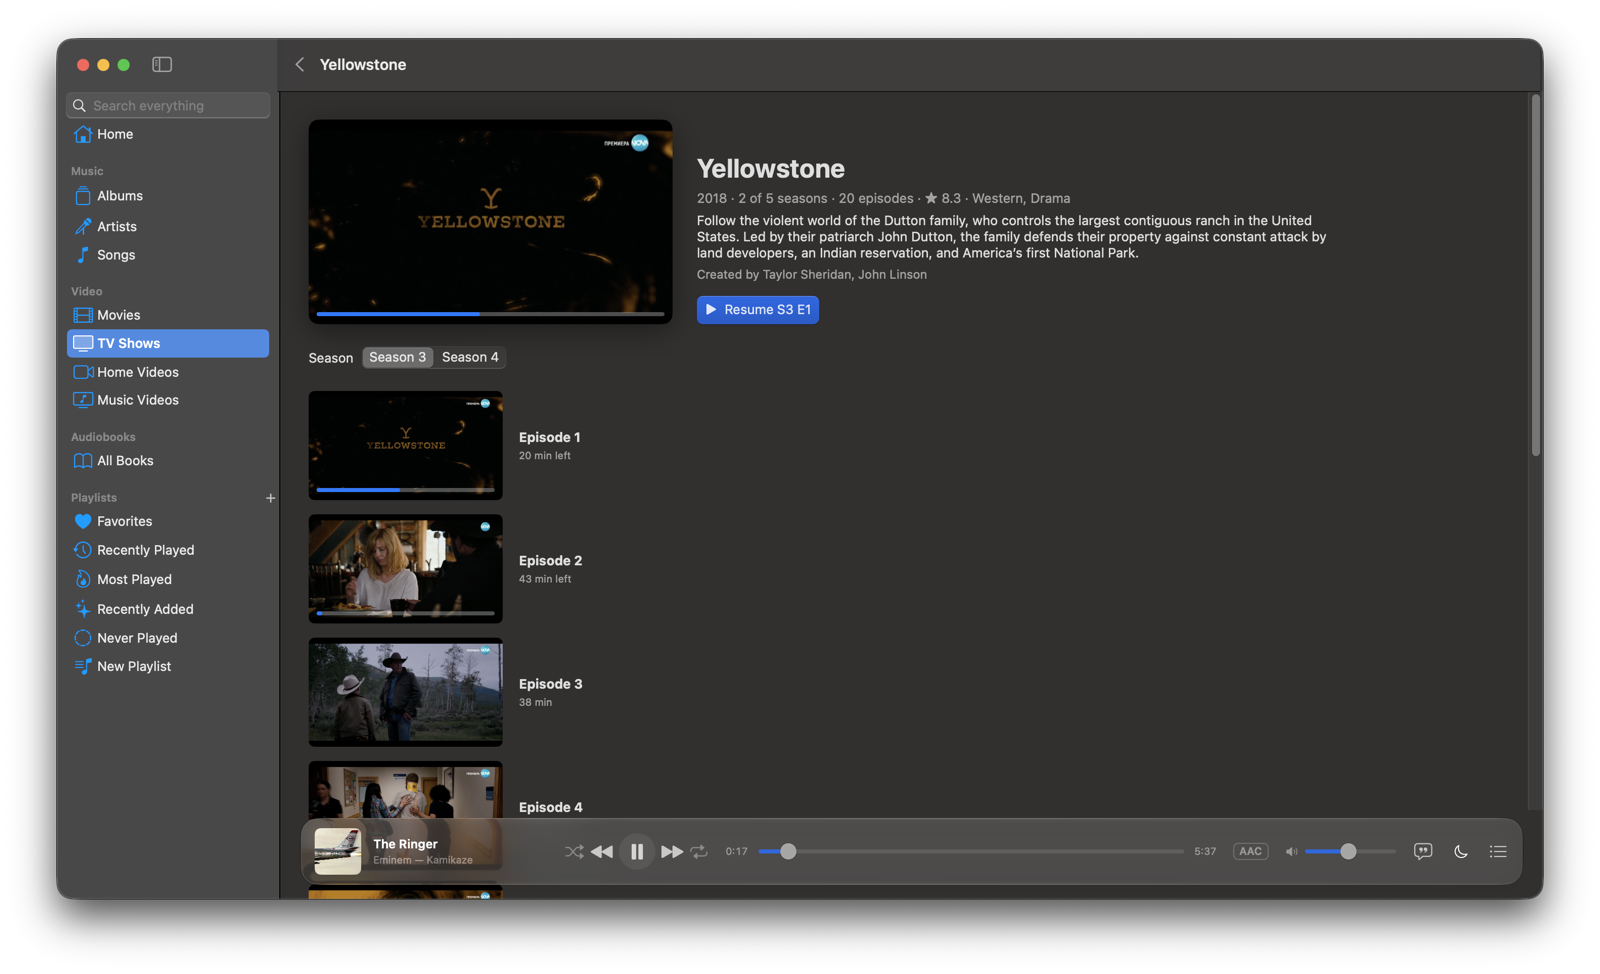
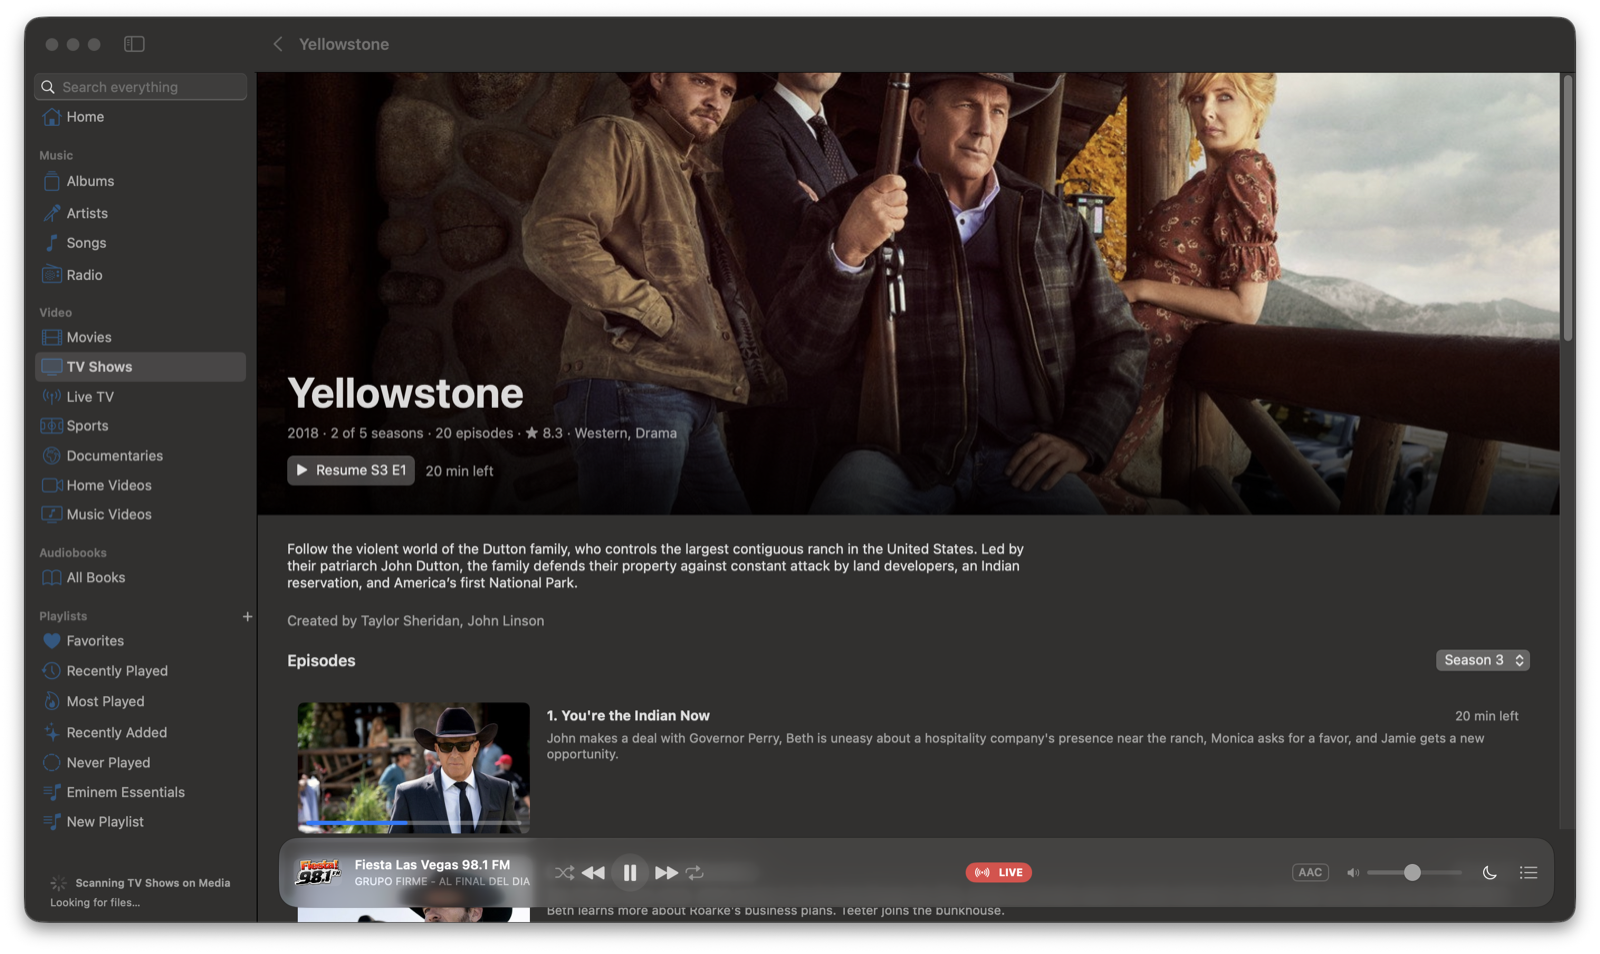
README: new screenshots (TV show page, cast profile, Live TV, Radio) and Live TV and Radio in the feature list

diff --git a/README.md b/README.md
@@ -11,8 +11,9 @@ asks you to prove you bought them. If a file isn't copy-protected, it plays.
 
 | | |
 |---|---|
-| ![A TV show with its seasons and episodes](docs/screenshots/show.png) | ![An album playing](docs/screenshots/album.png) |
-| ![Artists, with photos](docs/screenshots/artists.png) | ![An artist's page with bio and albums](docs/screenshots/artist.png) |
+| ![A TV show: backdrop, episodes with titles, summaries and stills](docs/screenshots/show.png) | ![An actor's page: biography, their movies in your library, and what they're known for](docs/screenshots/person.png) |
+| ![Live TV: free channels with what's on now and next](docs/screenshots/livetv.png) | ![Radio from around the world, by country](docs/screenshots/radio.png) |
+| ![An album playing](docs/screenshots/album.png) | ![Artists, with photos](docs/screenshots/artists.png) |
 
 ## What it does
 
@@ -24,6 +25,12 @@ asks you to prove you bought them. If a file isn't copy-protected, it plays.
 - **Video.** Movies, TV shows grouped into seasons, home videos, resume where you
   stopped, subtitle and audio-track menus. Keep watching in a corner while you
   browse; Up Next at the end of an episode, Skip Intro on intro chapters.
+- **Live TV.** Free channels streamed by the broadcasters themselves (Bulgarian
+  regional, news, music, sports…), and your own M3U playlists with their program
+  guide: what's on now and next, favorites, ⌘← / ⌘→ to switch channels.
+- **Radio.** Stations from all over the world through the free Radio Browser
+  directory: popular, by country, by genre, or search; favorites, and the song
+  that's playing.
 - **Audiobooks.** Chaptered M4B files or folders of MP3s, chapters, speed,
   sleep timer, bookmarks, resume to the second.
 - **Network folders.** Add folders from a NAS or shared Macs and PCs (Settings ›
